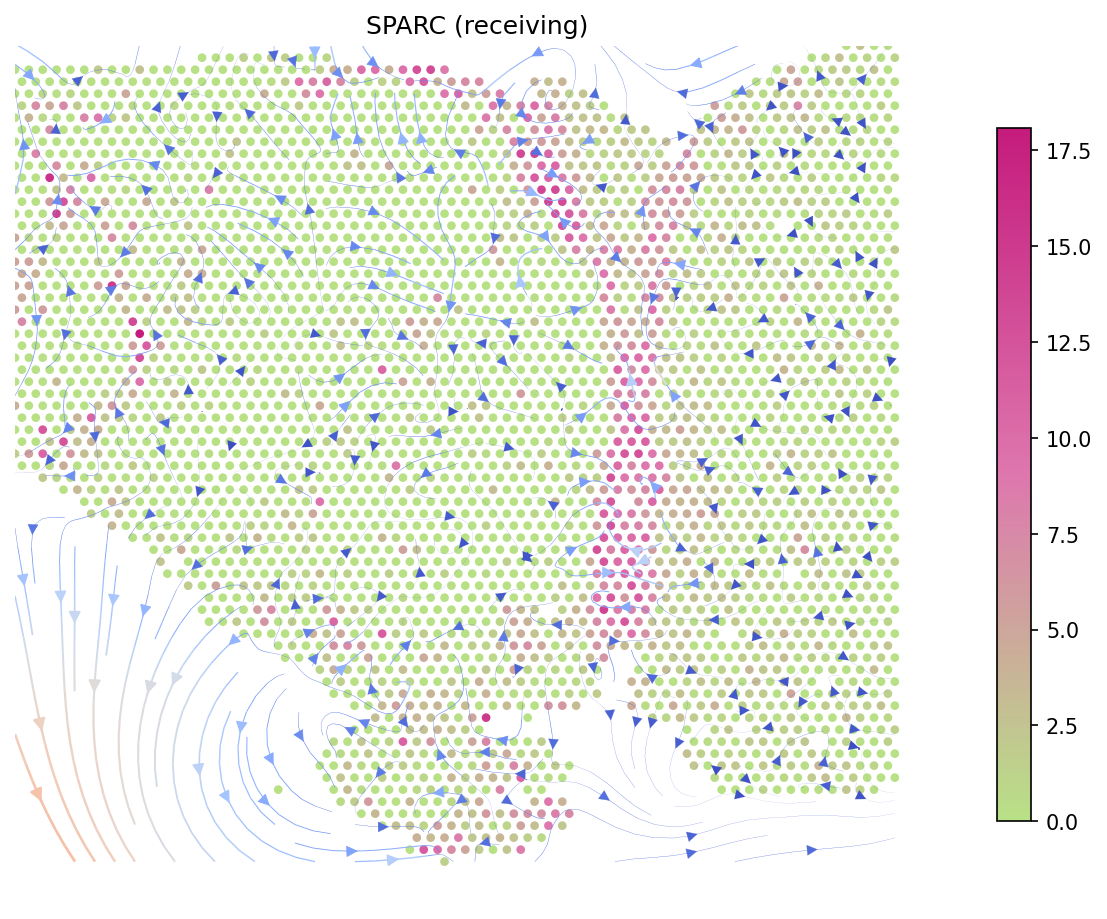
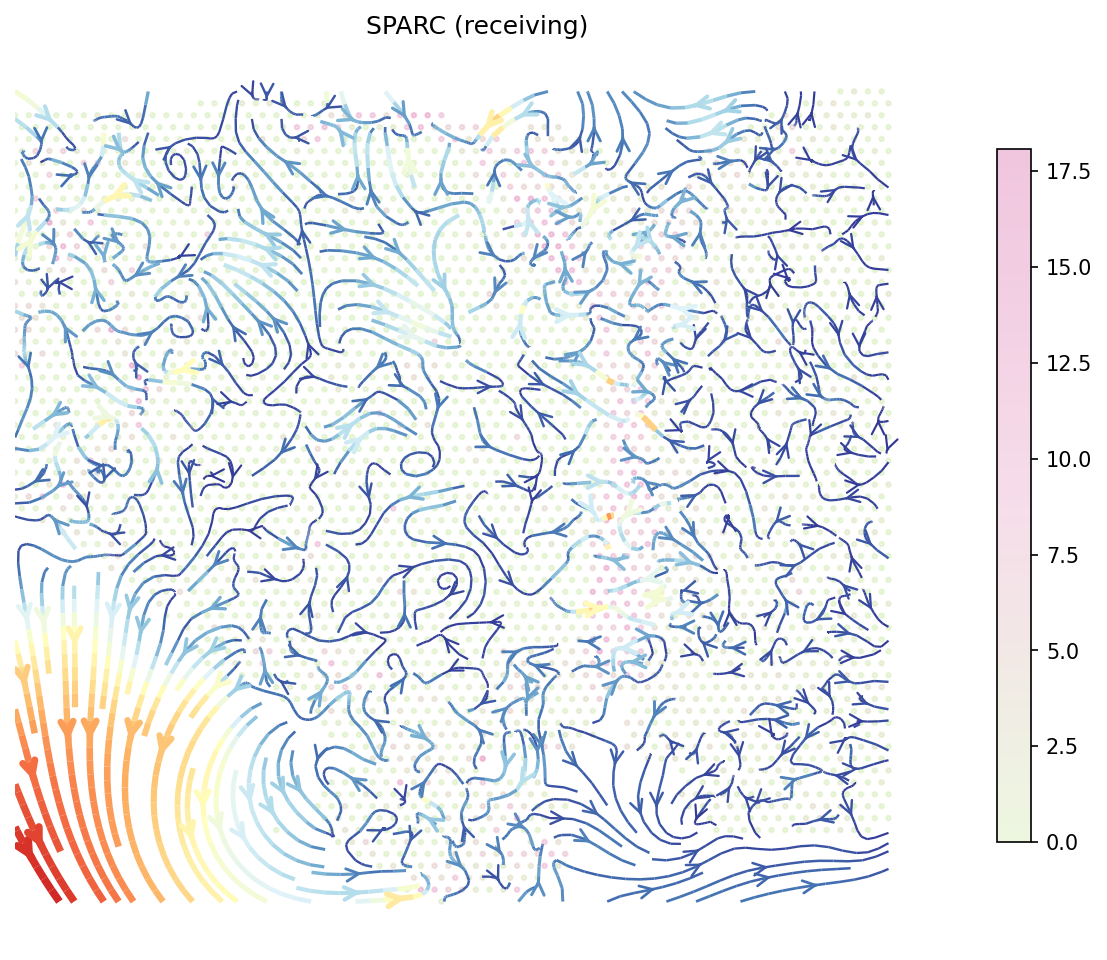
Improve velocity contour and animation visual quality
- Contour: finer grid (60), domain-scaled smoothing, denser streamlines,
  dimmed background scatter, RdYlBu_r colormap
- Animation: auto-scaled arrows relative to data extent, wider shafts,
  larger heads, higher opacity

diff --git a/spatialgpu/deconvolution/visualization.py b/spatialgpu/deconvolution/visualization.py
@@ -2120,14 +2120,17 @@ def visualize_secact_velocity(
 
     fig, ax = plt.subplots(figsize=figsize)
 
-    # Background points
+    # Background points (dim for contour mode so streamlines stand out)
     cmap = LinearSegmentedColormap.from_list("vel_cmap", _SECACT_VELOCITY_COLORS)
+    bg_alpha = 0.25 if contour_map else 1.0
+    bg_size = 5 if contour_map else 10
     sc = ax.scatter(
         points_df["x"],
         points_df["y"],
         c=points_df["value"],
         cmap=cmap,
-        s=10,
+        s=bg_size,
+        alpha=bg_alpha,
         zorder=1,
     )
     fig.colorbar(sc, ax=ax, shrink=0.6)
@@ -2169,10 +2172,13 @@ def _velocity_contour(
     dx = arrow_df["x_end"].values - x
     dy = arrow_df["y_end"].values - y
 
-    # Create regular grid for streamplot
-    n_grid = 30
-    xi = np.linspace(points_df["x"].min(), points_df["x"].max(), n_grid)
-    yi = np.linspace(points_df["y"].min(), points_df["y"].max(), n_grid)
+    x_min, x_max = points_df["x"].min(), points_df["x"].max()
+    y_min, y_max = points_df["y"].min(), points_df["y"].max()
+
+    # Fine grid for smooth streamlines
+    n_grid = 60
+    xi = np.linspace(x_min, x_max, n_grid)
+    yi = np.linspace(y_min, y_max, n_grid)
     XI, YI = np.meshgrid(xi, yi)
 
     # Interpolate velocity onto grid using RBF
@@ -2181,14 +2187,18 @@ def _velocity_contour(
     pts = np.column_stack([x, y])
     grid_pts = np.column_stack([XI.ravel(), YI.ravel()])
 
-    rbf_dx = RBFInterpolator(pts, dx, kernel="thin_plate_spline", smoothing=1.0)
-    rbf_dy = RBFInterpolator(pts, dy, kernel="thin_plate_spline", smoothing=1.0)
+    # Scale smoothing relative to domain size for stable interpolation
+    domain_scale = max(x_max - x_min, y_max - y_min)
+    smoothing = domain_scale * 0.01
+
+    rbf_dx = RBFInterpolator(pts, dx, kernel="thin_plate_spline", smoothing=smoothing)
+    rbf_dy = RBFInterpolator(pts, dy, kernel="thin_plate_spline", smoothing=smoothing)
 
     DX = rbf_dx(grid_pts).reshape(n_grid, n_grid)
     DY = rbf_dy(grid_pts).reshape(n_grid, n_grid)
 
     speed = np.sqrt(DX**2 + DY**2)
-    lw = 2 * speed / (speed.max() + 1e-10)
+    lw = 1.0 + 3.0 * speed / (speed.max() + 1e-10)
 
     ax.streamplot(
         xi,
@@ -2196,11 +2206,12 @@ def _velocity_contour(
         DX,
         DY,
         color=speed,
-        cmap="coolwarm",
+        cmap="RdYlBu_r",
         linewidth=lw,
-        density=1.5,
-        arrowsize=1.2,
-        zorder=2,
+        density=2.0,
+        arrowsize=1.5,
+        arrowstyle="->",
+        zorder=3,
     )
 
 
@@ -2243,6 +2254,17 @@ def _velocity_animated(
     n_frames = 30
     arrows_per_frame = max(1, n_arrows // n_frames)
 
+    # Compute a reasonable arrow scale from data extent
+    x_range = points_df["x"].max() - points_df["x"].min()
+    y_range = points_df["y"].max() - points_df["y"].min()
+    data_extent = max(x_range, y_range)
+    max_arrow_len = np.sqrt(
+        (arrow_df["x_end"].values - arrow_df["x_start"].values) ** 2
+        + (arrow_df["y_end"].values - arrow_df["y_start"].values) ** 2
+    ).max()
+    # Scale so the longest arrow is ~8% of data extent
+    arrow_scale = max_arrow_len / (0.08 * data_extent) if max_arrow_len > 0 else 1.0
+
     quiver_obj = [None]
 
     def update(frame):
@@ -2265,10 +2287,11 @@ def _velocity_animated(
             dy,
             sub["vec_len"].values,
             cmap="coolwarm",
-            scale_units="xy",
-            scale=1,
-            width=0.003,
-            alpha=0.7,
+            scale=arrow_scale,
+            width=0.004,
+            headwidth=4,
+            headlength=5,
+            alpha=0.8,
             zorder=2,
         )
         return (quiver_obj[0],)
